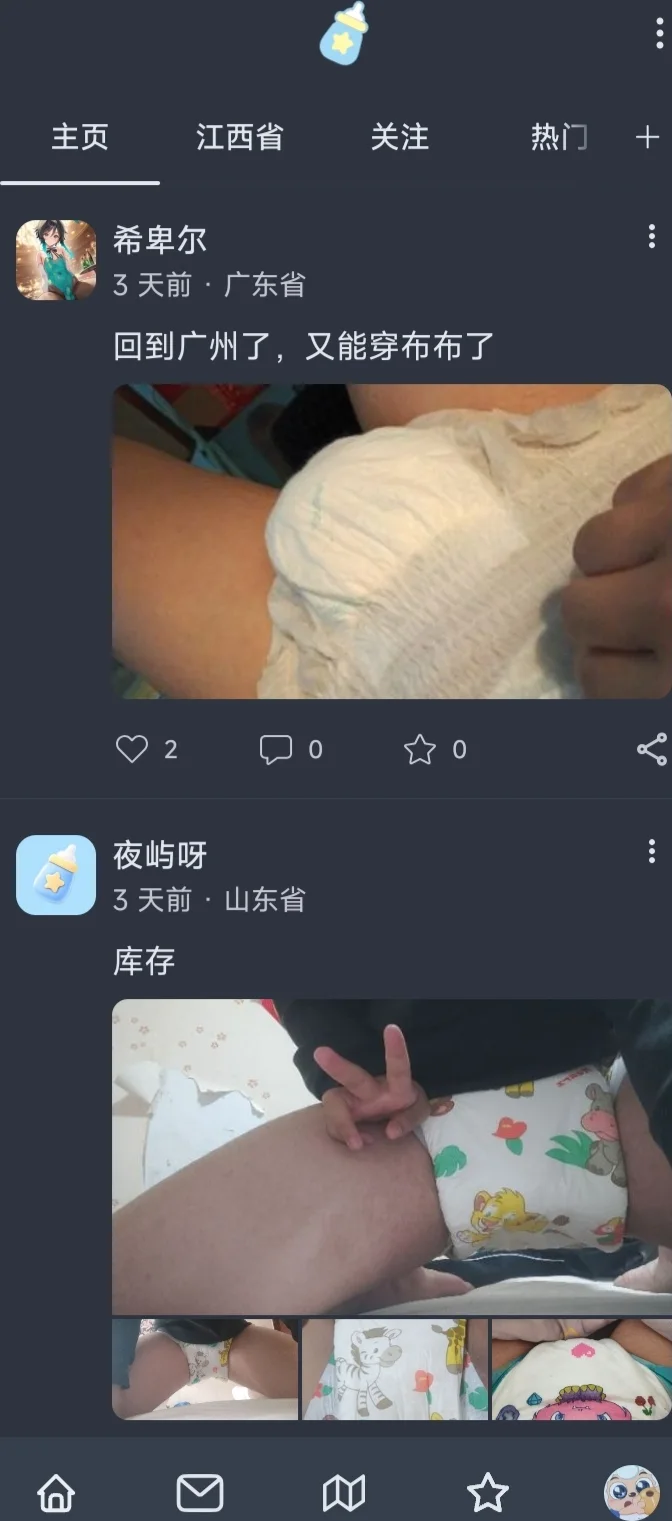
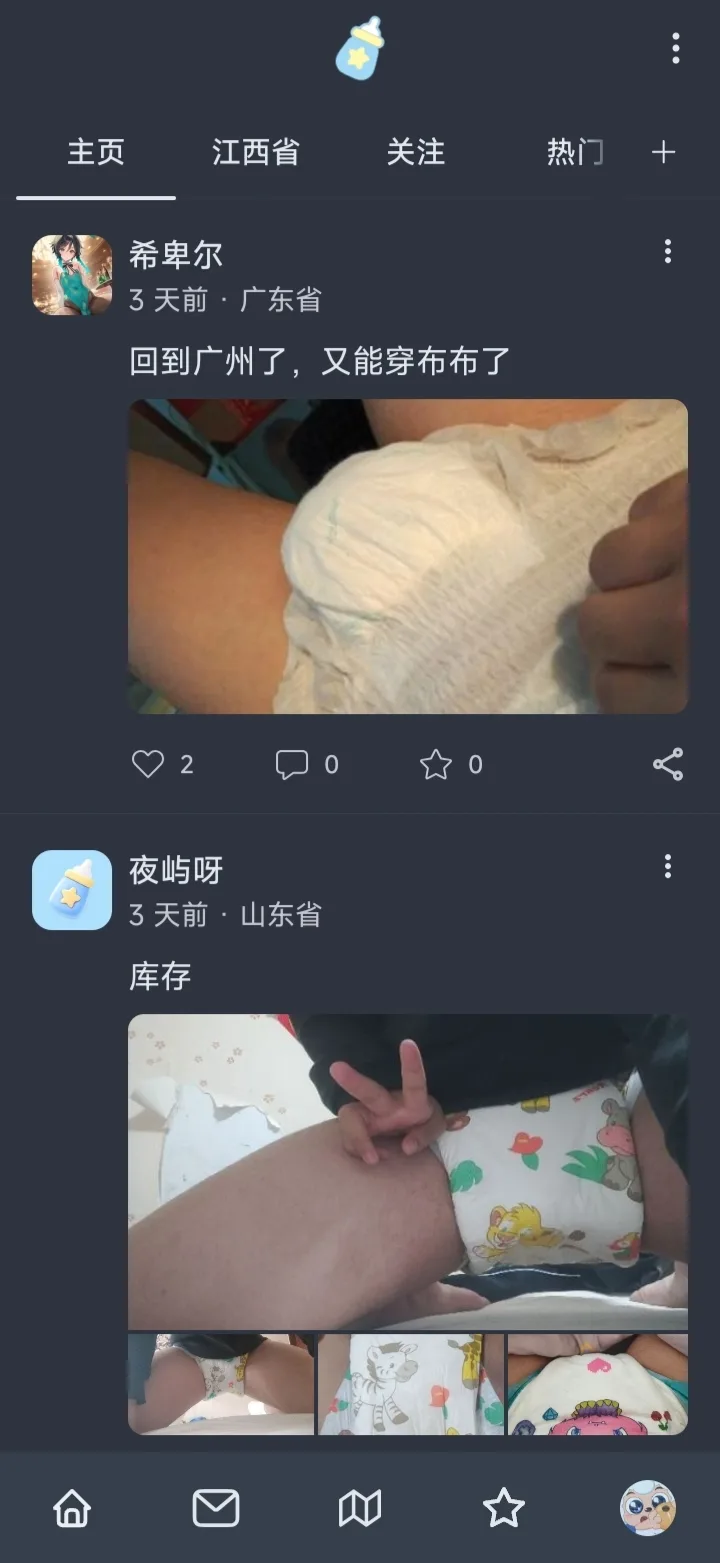
fix(download): keep the full screenshots and fit the frame to them
The previous pass trimmed the screenshots' own page margins, which also
cut into the app content. Restore the untouched captures and instead
make the phone frame adopt each image's exact ratio.

The 4px bezel moves from border to an outward box-shadow ring so it no
longer shrinks the content box; with the frame ratio equal to the image
ratio, object-fit: cover fills it exactly - no pale band and no crop.

diff --git a/client/tests/download-screenshot-fallback.test.js b/client/tests/download-screenshot-fallback.test.js
@@ -4,12 +4,12 @@ import { readFileSync, statSync } from 'node:fs';
 
 const read = path => readFileSync(new URL(path, import.meta.url), 'utf8');
 const SLOTS = [
-  ['community-light', 'community-light', 719, 1519],
-  ['community-dark', 'community-dark', 672, 1521],
-  ['rankings-light', 'rankings-light', 672, 1536],
-  ['rankings-dark', 'rankings-dark', 647, 1475],
-  ['reading-light', 'reading-light', 604, 1425],
-  ['reading-dark', 'reading-dark', 604, 1425],
+  ['community-light', 'community-light', 720, 1640],
+  ['community-dark', 'community-dark', 720, 1563],
+  ['rankings-light', 'rankings-light', 720, 1640],
+  ['rankings-dark', 'rankings-dark', 720, 1640],
+  ['reading-light', 'reading-light', 720, 1640],
+  ['reading-dark', 'reading-dark', 720, 1640],
 ];
 
 test('six bundled screenshots exist as real WebP assets', () => {
@@ -40,10 +40,11 @@ test('the download hook falls back only when the backend has no image', () => {
   assert.match(source, /const withFallback = \(feature, image\) => image \?\? fallbackDownloadScreenshot\(feature, effective\);/);
 });
 
-test('the phone frame hugs the screenshot so no background band shows', () => {
+test('the phone frame matches the screenshot exactly without a border box', () => {
   const page = read('../src/pages/AppDownload.jsx');
-  assert.match(page, /className="adl-phone"[^>]*aspectRatio: `\$\{image\.width\} \/ \$\{image\.height\}`/, 'frame ratio comes from the image');
+  assert.match(page, /aspectRatio: `\$\{image\.width\} \/ \$\{image\.height\}`/, 'frame ratio comes from the image');
   const css = read('../src/pages/AppDownload.css');
-  assert.match(css, /\.adl-phone img \{[^}]*object-fit: cover;/, 'the image fills the frame');
-  assert.match(css, /\.adl-phone img \{[^}]*object-position: top;/, 'cropping stays at the bottom');
+  assert.match(css, /\.adl-phone \{[^}]*box-shadow: 0 0 0 4px #181820/, 'the bezel is drawn outside the layout');
+  assert.doesNotMatch(css, /\.adl-phone \{[^}]*border: 4px solid/, 'no border steals frame space from the image');
+  assert.match(css, /\.adl-phone img \{[^}]*object-fit: cover;/, 'the screenshot fills the frame exactly');
 });

diff --git a/client/src/pages/downloadScreenshotFallback.js b/client/src/pages/downloadScreenshotFallback.js
@@ -8,12 +8,12 @@ import readingLight from '../assets/app-download/reading-light.webp';
 // 后端还没有为某个槽位配置截图时，下载页使用随前端一同发布的实机截图。
 // 管理员上传后，后端图片优先；删除槽位后又回到这里的内置图。
 export const DOWNLOAD_SCREENSHOT_FALLBACK = {
-  'community-light': { url: communityLight, width: 719, height: 1519 },
-  'community-dark': { url: communityDark, width: 672, height: 1521 },
-  'rankings-light': { url: rankingsLight, width: 672, height: 1536 },
-  'rankings-dark': { url: rankingsDark, width: 647, height: 1475 },
-  'reading-light': { url: readingLight, width: 604, height: 1425 },
-  'reading-dark': { url: readingDark, width: 604, height: 1425 },
+  'community-light': { url: communityLight, width: 720, height: 1640 },
+  'community-dark': { url: communityDark, width: 720, height: 1563 },
+  'rankings-light': { url: rankingsLight, width: 720, height: 1640 },
+  'rankings-dark': { url: rankingsDark, width: 720, height: 1640 },
+  'reading-light': { url: readingLight, width: 720, height: 1640 },
+  'reading-dark': { url: readingDark, width: 720, height: 1640 },
 };
 
 export function fallbackDownloadScreenshot(feature, theme) {

diff --git a/client/src/pages/AppDownload.css b/client/src/pages/AppDownload.css
@@ -133,7 +133,7 @@
   --adl-screen: color-mix(in srgb, var(--adl-tone) 42%, #fff);
   --adl-highlight: color-mix(in srgb, var(--adl-ink) var(--adl-tone-ink-share), var(--adl-tone));
 }
-.adl-phone { position: relative; overflow: hidden; aspect-ratio: 9 / 19.5; border: 4px solid #181820; border-radius: clamp(16px, 2.4vw, 28px); background: var(--adl-screen); box-shadow: 0 16px 40px #12121a55; }
+.adl-phone { position: relative; overflow: hidden; aspect-ratio: 9 / 19.5; border-radius: clamp(16px, 2.4vw, 28px); background: var(--adl-screen); box-shadow: 0 0 0 4px #181820, 0 16px 40px #12121a55; }
 .adl-phone img { display: block; width: 100%; height: 100%; object-fit: cover; object-position: top; }
 
 .adl-kicker { display: flex; align-items: center; gap: 10px; color: var(--adl-highlight); font-size: 13px; font-weight: 750; letter-spacing: .055em; }

diff --git a/client/src/pages/AppDownload.jsx b/client/src/pages/AppDownload.jsx
@@ -114,7 +114,7 @@ function ScreenImage({ feature, image, decorative = false }) {
 }
 
 function Phone({ feature, image, decorative = false }) {
-  // 机身按截图本身的比例收缩，避免固定比例在边缘留下背景色条。
+  // 机身比例取自截图本身；边框改为外扩阴影，不占布局，图片可完整铺满机身。
   return <div className="adl-phone" data-tone={feature.tone} style={{ aspectRatio: `${image.width} / ${image.height}` }}><ScreenImage feature={feature} image={image} decorative={decorative} /></div>;
 }
 
